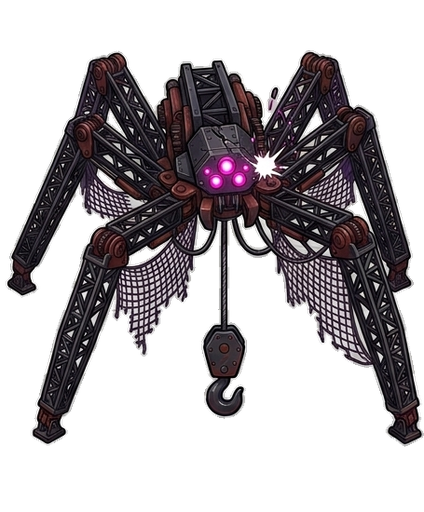
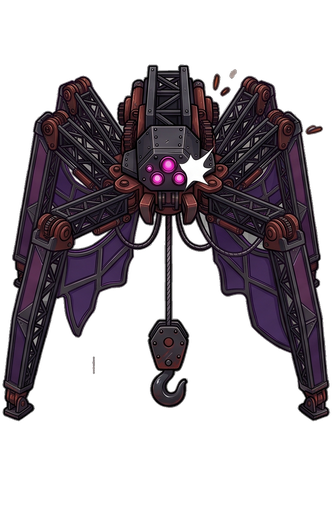
fix(rush3): E10·B1·B2 3상태 그림 빛무리 없이 재생성 + 체커 제거 도구 보강
이사 지시(2026-09-24): "빛무리 빼고 세 장 다시 그려줘".
- 반투명 빛무리가 가짜 체커 위에 그려져 남던 체커 자국 제거 — 프롬프트에 빛무리·아지랑이·반투명 효과 금지,
  거미줄은 불투명한 선으로만
- states_split.py: 어두운 체커에서 몸체의 짙은 면이 '갇힌 체커 조각'으로 지워지던 결함 수정
  (두 색이 모두 섞인 덩어리만 지운다 · 배경 후보를 2px 깎아 가는 다리를 끊고 되돌린다)
- 검사 rush3 380/380

diff --git a/tools/states/states_split.py b/tools/states/states_split.py
@@ -24,15 +24,26 @@ def unchecker(path, tol=14):
     #  ⚠적은 **숯검정**이라 '중립색' 만으로 배경을 잡으면 몸체까지 배경 덩어리에 이어 붙어 통째로 지워진다(2026-09-23 실측).
     #   그래서 배경 후보 = 중립색 **이면서 체커 두 색(A·B) 근처** 인 화소로 좁힌다.
     neutral = neutral & nearAB
-    lab, n = ndi.label(neutral, structure=np.ones((3, 3)))
+    #  ⚠체커가 **어두운** 판(예: 141/55, 2026-09-24 E10 재생성)에서는 몸체의 짙은 회색 면이 체커 색과 같아,
+    #   윤곽선의 가는 틈으로 바깥 배경과 이어지면 통째로 지워졌다. 배경 후보를 2px 깎아 **가는 다리를 끊은 뒤**
+    #   테두리에 닿는 덩어리만 고르고, 다시 2px 되돌린다(후보 안에서만) — 넓은 바깥 배경은 그대로 잡히고 몸 안은 안 새어 든다
+    core = ndi.binary_erosion(neutral, iterations=2, border_value=1)   # 화면 밖은 배경으로 본다(테두리가 깎이지 않게)
+    lab, n = ndi.label(core, structure=np.ones((3, 3)))
     border = set(np.unique(np.concatenate([lab[0], lab[-1], lab[:, 0], lab[:, -1]]))); border.discard(0)
-    bg = np.isin(lab, list(border))
+    bg = ndi.binary_dilation(np.isin(lab, list(border)), iterations=3) & neutral
+    lab, n = ndi.label(neutral, structure=np.ones((3, 3)))
     idx = np.arange(1, n + 1)
     sizes = ndi.sum(neutral, lab, index=idx); frac = ndi.sum(nearAB & neutral, lab, index=idx) / np.maximum(sizes, 1)
     objs = ndi.find_objects(lab)
+    #  갇힌 체커 조각(pocket) = 두 색 A·B 가 **둘 다** 섞여 있는 덩어리만(체커는 두 색이 번갈아 나온다).
+    #   한 색뿐인 덩어리는 몸체의 면이다 — 어두운 체커(141/55)에서 E10 의 짙은 줄무늬가 통째로 지워진 원인(2026-09-24)
+    nearA = np.abs(v - A) <= 12; nearB = np.abs(v - B) <= 12
+    fa = ndi.sum(nearA & neutral, lab, index=idx) / np.maximum(sizes, 1)
+    fb = ndi.sum(nearB & neutral, lab, index=idx) / np.maximum(sizes, 1)
     pockets = []
     for i in range(n):
         if (i + 1) in border or sizes[i] < 200 or frac[i] < 0.9: continue
+        if fa[i] < 0.15 or fb[i] < 0.15: continue
         sl = objs[i]; bb = (sl[0].stop - sl[0].start) * (sl[1].stop - sl[1].start)
         if bb > 0.25 * H * W: continue
         pockets.append(i + 1)

diff --git a/newmode/v3/이미지프롬프트_v7_적_피격사망.md b/newmode/v3/이미지프롬프트_v7_적_피격사망.md
@@ -63,7 +63,9 @@ Transparent background, no ground, no shadow, no text, no labels, no numbers.
 | 4 | E2 램하운드 | ✅ 2026-09-23 | 1차는 **검은 배경 + 몸을 덮는 큰 섬광** → 같은 대화에서 "배경 완전 투명·섬광은 작게"로 재생성해 통과 |
 | 5 | E3 월가드(바리케이드) | ✅ 2026-09-23 저녁 | 1회 통과 |
 | 6 | E4 니들아이 | ✅ 2026-09-23 저녁 | 1회 통과 |
-| 7~15 | E7·E8·E9·E10·B1·B2·B3·B4·B5 | ✅ 2026-09-24 | 9종 연속 1회 통과. ⚠E10·B1 의 HIT 와 B2 거미줄에는 **반투명 빛무리가 가짜 체커 위에 그려져** 체커 자국이 조금 남는다(unchecker 로 못 지운다 — 필요하면 'no glow halo outside the body' 로 재생성) |
+| 7~15 | E7·E8·E9·E10·B1·B2·B3·B4·B5 | ✅ 2026-09-24 | 9종 연속 1회 통과. E10·B1·B2 는 2026-09-24 **빛무리 없이 재생성**(원본 `S_E10b`·`S_B1b`·`S_B2b`) — 프롬프트에 "NO glow halo, NO aura, NO light bloom, NO haze, NO semi-transparent effects … webs as solid opaque lines only" 추가 |
+
+**후처리 도구 보강(2026-09-24)**: 어두운 체커(141/55)에서 E10 의 짙은 줄무늬가 '갇힌 체커 조각'으로 오인돼 지워졌다 → 갇힌 조각은 **두 색이 모두 15% 이상 섞인 덩어리만** 지우고, 배경 flood-fill 은 후보를 2px 깎아 가는 다리를 끊은 뒤 되돌린다(`tools/states/states_split.py`).
 
 **⚠'한도 소진' 오진(2026-09-23)**: 설명문("I cannot generate…")이 온 원인은 한도가 아니라 **이미 켜진 '이미지 만들기'를 다시 눌러 끈 것**이었다(이사님은 유료 요금제). `[aria-label="이미지 선택 해제"]` 가 있으면 누르지 않도록 바꾸자 9종이 연속으로 나왔다.
 
